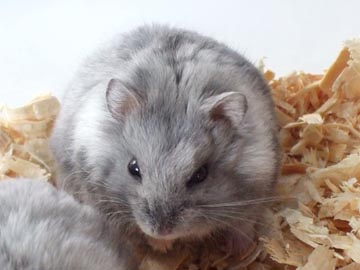
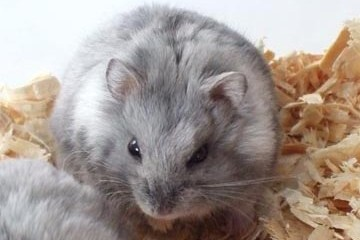
新增圖片

diff --git a/survey.html b/survey.html
@@ -48,6 +48,7 @@
             </li>
             <li><a href="encyclopedia.html">鼠鼠百科</a></li>
             <li><a href="setup.html">小窩佈置</a></li>
+            <li><a href="survey.html">愛鼠濃度</a></li>
         </ul>
         <div class="hamburger" id="hamburger">
             <span></span> <!-- 三條線漢堡選單 -->
@@ -66,20 +67,34 @@
         <!-- 上面會有跑動的鼠鼠 -->
         <section class="main-info">
             <p class="main-info-p">
-                倉鼠是多種雜食性的夜行性鼠類的統稱<br>
-                倉鼠有24個不同的種類，在寵物市場上常見的倉鼠有四種：黃金鼠、三線鼠、一線鼠和老公公鼠<br>
-                除了黃金鼠外，後三種統稱為侏儒倉鼠
+                看完了這四種倉鼠的介紹，你最喜緩哪種倉鼠呢<br>
+                在這裡可以選擇你最喜歡的倉鼠，並寫下你有多愛它<br>
+                還可以去看看其他人都有多愛倉鼠喔
             </p>
+            <div class="main-info-imgbar">
+                <div class="main-info-intro">
+                    <p class="intro-p">黃金鼠</p>
+                    <p class="intro-p">三線鼠</p>
+                    <p class="intro-p">一線鼠</p>
+                    <p class="intro-p">老公公鼠</p>
+                </div>
+                <div class="main-info-img">
+                    <img src="./img/runningHamster1.gif" alt="黃金鼠" class="running-hamster">
+                    <img src="./img/runningHamster2.gif" alt="三線鼠" class="running-hamster">
+                    <img src="./img/runningHamster3.gif" alt="一線鼠" class="running-hamster">
+                    <img src="./img/runningHamster4.gif" alt="老公公鼠" class="running-hamster">
+                </div>
+            </div>
         </section>
 
         <!-- 切換表單&數據區按鈕 -->
         <nav class="main-nav" id="main-nav">
             <ul>
                 <li class="main-nav-bottom present-nav-bottom" id="surveyForm">
-                    <a href="#">表單</a>
+                    <p>表單</p>
                 </li>
                 <li class="main-nav-bottom" id="surveyData">
-                    <a href="#">數據</a>
+                    <p>數據</p>
                 </li>
             </ul>
         </nav>
@@ -88,24 +103,24 @@
             <h2 class="survey-title">選擇一隻你最愛的倉鼠</h2>
             <div class="survey-form grid">
                 <div class="form-hamster-type g-col-xs-6 g-col-m-3" id="surveyHamster1">
-                    <div class="form-hamster-img"></div>
+                    <div class="form-hamster-img"><img src="./img/runningHamster1.gif" alt="黃金鼠" class="form-running-hamster"></div>
                     <p class="form-hamster-name">黃金鼠</p>
                 </div>
                 <div class="form-hamster-type g-col-xs-6 g-col-m-3" id="surveyHamster2">
-                    <div class="form-hamster-img"></div>
+                    <div class="form-hamster-img"><img src="./img/runningHamster1.gif" alt="黃金鼠" class="form-running-hamster"></div>
                     <p class="form-hamster-name">三線鼠</p>
                 </div>
                 <div class="form-hamster-type g-col-xs-6 g-col-m-3" id="surveyHamster3">
-                    <div class="form-hamster-img"></div>
+                    <div class="form-hamster-img"><img src="./img/runningHamster1.gif" alt="黃金鼠" class="form-running-hamster"></div>
                     <p class="form-hamster-name">一線鼠</p>
                 </div>
                 <div class="form-hamster-type g-col-xs-6 g-col-m-3" id="surveyHamster4">
-                    <div class="form-hamster-img"></div>
+                    <div class="form-hamster-img"><img src="./img/runningHamster1.gif" alt="黃金鼠" class="form-running-hamster"></div>
                     <p class="form-hamster-name">老公公鼠</p>
                 </div>
             </div>
             <h2 class="survey-title">那麼你有多愛它呢</h2>
-            <input id="surveyNumber" type="number" step="10" max="300" min="0" value="100">
+            <input id="surveyNumber" type="number" step="10" max="400" min="0" value="100">
         </articles>
         <div class="bottom" id="formBottom">
             <a href="#" class="form-bottom" id="finishBottom">完成</a>

diff --git a/CSS/survey.css b/CSS/survey.css
@@ -42,15 +42,65 @@
 /* 第一區-倉鼠簡介 */
 .main-info {
     /* position: relative; */
-    height: 50vh;
+    height: 40vh;
     text-align: center;
     background-color: var(--color-secondary);
     padding: 1rem;
+    /* border-radius: 10% / 20%; */
     /* margin-bottom: 2rem; */
+}
+.main-info-p {
+    /* font-size: 1.2rem; */
+    font-weight: 500;
 }
 .main-info:hover .main-info-p {
   animation-name: weee;
   animation-duration: 0.5s;
+}
+
+.main-info-imgbar {
+    position: relative;
+    height: 150px;
+}
+.main-info-intro {
+    display: flex;
+    justify-content: space-around;
+    padding: 1.5rem 0 0 2rem;
+}
+.intro-p {
+    position: relative;
+    padding: 0.5rem;
+    background-color: #fff;
+    border-radius: 20%;
+}
+.intro-p::before {
+    content: '';
+    display: block;
+    position: absolute;
+    width: 0;
+    height: 0;
+    bottom: -8px;
+    left: 20px;
+    border-width: 5px;
+    border-color: rgb(255, 255, 255) #fff0 #fff0 rgb(255, 255, 255);
+    border-style: solid;
+}
+.main-info-img {
+    position: absolute;
+    bottom: 0;
+}
+.running-hamster {
+    width: 20%;
+    border-radius: 10%;
+}
+
+@media (min-width: 768px) {
+    .main-info {
+        height: 50vh;
+    }
+    .main-info-imgbar {
+        height: 200px;
+    }
 }
 
 /* 切換表單&數據區按鈕 */
@@ -62,6 +112,7 @@
     background-color: #fff;
     /* opacity: 75%; */
     padding: 0 0.5rem;
+    border-top: 10px solid #fff;
     border-bottom: 5px solid var(--color-text);
     /* border-radius: 20% 20% 0 0 / 10%; */
     /* margin: auto; */
@@ -98,7 +149,7 @@
     width: 100%;
     background-color: #fff;
     text-align: center;
-    padding: 0.5rem;
+    padding: 1rem 0.5rem;
 }
 .survey-form {
     padding: 1rem;
@@ -134,8 +185,18 @@
     background-color: #fff;
     border-radius: 10% / 20%;
 }
+.form-running-hamster {
+    width: 80%;
+}
 
-
+/* 輸入框 */
+input {
+    /* width: 100px; */
+    /* height: 40px; */
+    font-size: 1.5rem;
+    text-align: center;
+    border: 5px inset var(--color-wood);
+}
 
 /* 完成按鈕 */
 .bottom {

diff --git a/encyclopedia/djungarian_hamster.html b/encyclopedia/djungarian_hamster.html
@@ -53,6 +53,7 @@
                 </li>
                 <li><a href="../encyclopedia.html">鼠鼠百科</a></li>
                 <li><a href="../setup.html">小窩佈置</a></li>
+                <li><a href="../survey.html">愛鼠濃度</a></li>
             </ul>
             <div class="hamburger" id="hamburger">
                 <span></span> <!-- 三條線漢堡選單 -->

diff --git a/encyclopedia/mesocricetus_auratus.html b/encyclopedia/mesocricetus_auratus.html
@@ -53,6 +53,7 @@
                 </li>
                 <li><a href="../encyclopedia.html">鼠鼠百科</a></li>
                 <li><a href="../setup.html">小窩佈置</a></li>
+                <li><a href="../survey.html">愛鼠濃度</a></li>
             </ul>
             <div class="hamburger" id="hamburger">
                 <span></span> <!-- 三條線漢堡選單 -->

diff --git a/encyclopedia/phodopus_campbelli.html b/encyclopedia/phodopus_campbelli.html
@@ -53,6 +53,7 @@
                 </li>
                 <li><a href="../encyclopedia.html">鼠鼠百科</a></li>
                 <li><a href="../setup.html">小窩佈置</a></li>
+                <li><a href="../survey.html">愛鼠濃度</a></li>
             </ul>
             <div class="hamburger" id="hamburger">
                 <span></span> <!-- 三條線漢堡選單 -->

diff --git a/encyclopedia/phodopus_roborovskii.html b/encyclopedia/phodopus_roborovskii.html
@@ -53,6 +53,7 @@
                 </li>
                 <li><a href="../encyclopedia.html">鼠鼠百科</a></li>
                 <li><a href="../setup.html">小窩佈置</a></li>
+                <li><a href="../survey.html">愛鼠濃度</a></li>
             </ul>
             <div class="hamburger" id="hamburger">
                 <span></span> <!-- 三條線漢堡選單 -->

diff --git a/setup.html b/setup.html
@@ -48,6 +48,7 @@
                 </li>
                 <li><a href="encyclopedia.html">鼠鼠百科</a></li>
                 <li><a href="setup.html">小窩佈置</a></li>
+                <li><a href="survey.html">愛鼠濃度</a></li>
             </ul>
             <div class="hamburger" id="hamburger">
                 <span></span> <!-- 三條線漢堡選單 -->

diff --git a/encyclopedia.html b/encyclopedia.html
@@ -45,6 +45,7 @@
             </li>
             <li><a href="encyclopedia.html">鼠鼠百科</a></li>
             <li><a href="setup.html">小窩佈置</a></li>
+            <li><a href="survey.html">愛鼠濃度</a></li>
         </ul>
         <div class="hamburger" id="hamburger">
             <span></span> <!-- 三條線漢堡選單 -->

diff --git a/index.html b/index.html
@@ -46,6 +46,7 @@
             </li>
             <li><a href="encyclopedia.html">鼠鼠百科</a></li>
             <li><a href="setup.html">小窩佈置</a></li>
+            <li><a href="survey.html">愛鼠濃度</a></li>
         </ul>
         <div class="hamburger" id="hamburger">
             <span></span> <!-- 三條線漢堡選單 -->
